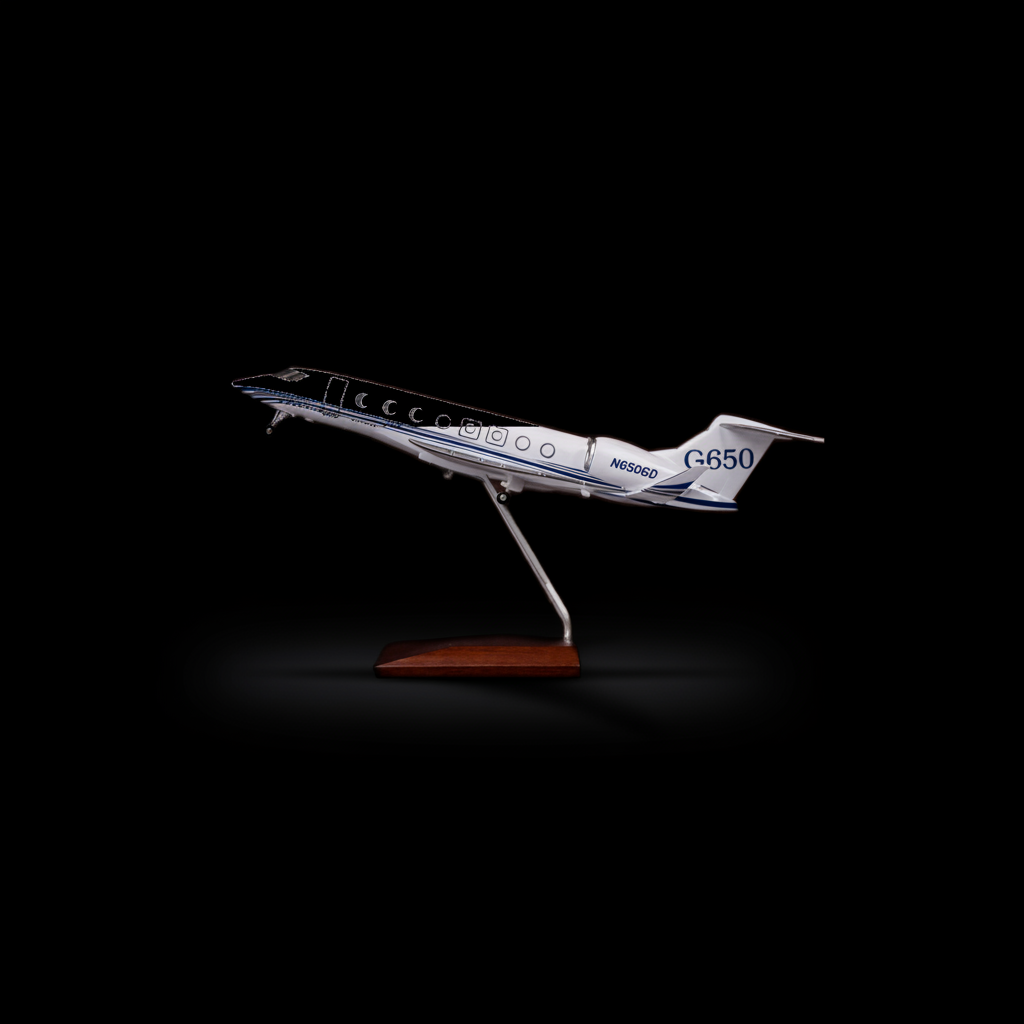
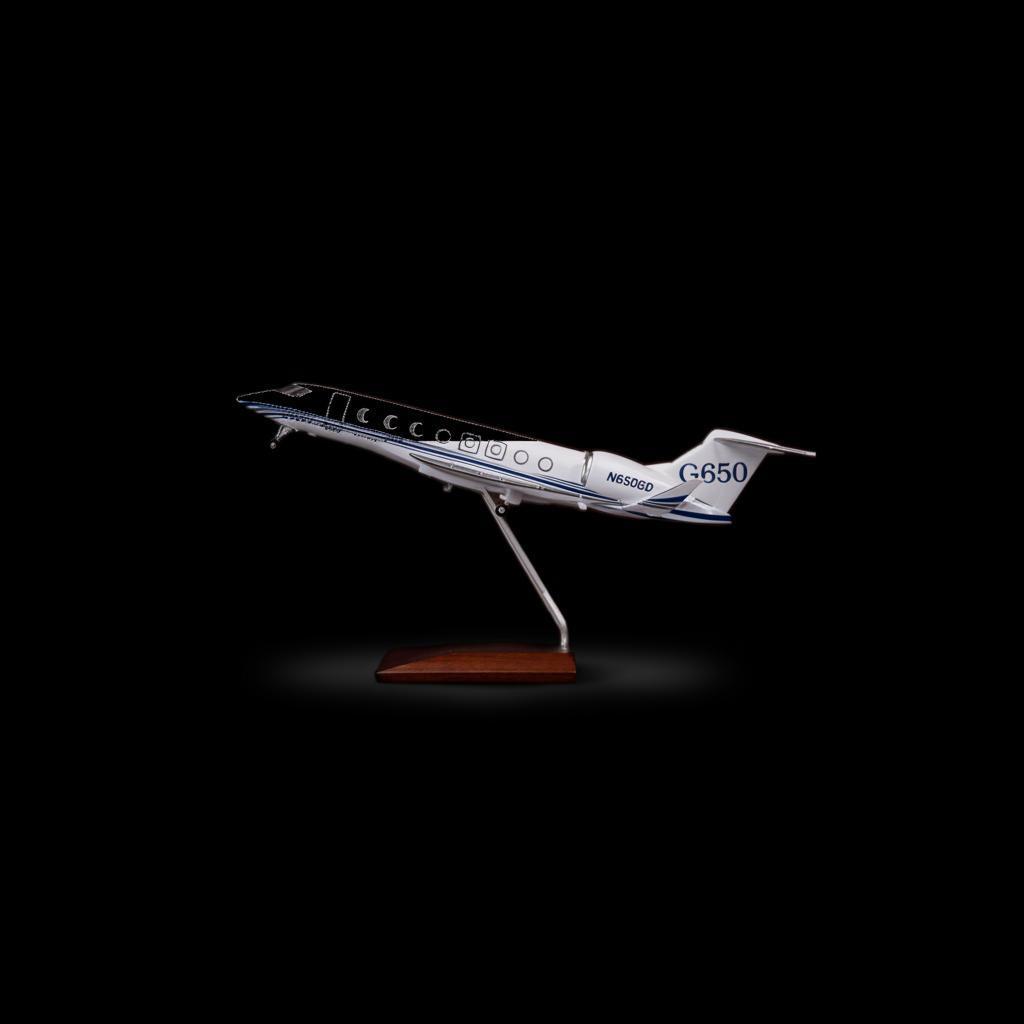
feat(images): regen Gulfstream + both Concordes via Gemini — fill the frame
User feedback: the Gulfstream and both Concorde cards looked unclear and
the planes were too small / had watermark fragments still visible.

Reshot via Gemini 2.5 Flash Image with explicit "fill 85-90% of the frame"
prompts plus livery-preservation hints:

- Gulfstream G650 (181 KB) — N650GD + G650 markings preserved, plane now
  ~70% of the frame, clean black background.
- Concorde AF 50cm (266 KB) — cursive "Concorde" watermark gone, AIR
  FRANCE livery + tricolour tail intact, plane ~80% of the frame.
- Concorde BA 50cm (581 KB) — floating "A" watermark fragment gone,
  British Airways livery + Union-Jack-inspired tail intact, plane ~75%
  of the frame.

All three now sit on the matching #080810 background so the photo edge
fuses seamlessly into the product card.

Changed region(s): [[0.2188, 0.3438, 0.8125, 0.6875]]

diff --git a/lib/products.ts b/lib/products.ts
@@ -426,9 +426,9 @@ export const PRODUCTS: Product[] = [
     price: 89,
     collection: "concorde",
     inStock: true,
-    image: `${CDN}/DF8AE5B5-7A2D-4A02-B2BD-118AAF5D58AD_nobg.png`,
+    image: `/images/concorde-af-50.png`,
     images: [
-      `${CDN}/DF8AE5B5-7A2D-4A02-B2BD-118AAF5D58AD_nobg.png`,
+      `/images/concorde-af-50.png`,
       `${CDN}/51AA0205-B8D3-436A-A8C3-3EC854A7E05E.png`,
       `${CDN}/EADAEF26-88AC-4AB3-8A47-4135892B980D.png`,
     ],
@@ -443,9 +443,9 @@ export const PRODUCTS: Product[] = [
     price: 89,
     collection: "concorde",
     inStock: true,
-    image: `${CDN}/9A131FF0-EAB2-4176-9236-7B2761E44FB5_nobg_v2.png`,
+    image: `/images/concorde-ba-50.png`,
     images: [
-      `${CDN}/9A131FF0-EAB2-4176-9236-7B2761E44FB5_nobg_v2.png`,
+      `/images/concorde-ba-50.png`,
       `${CDN}/9909E902-39B4-4FB1-94DD-D125FF9C516D.png`,
       `${CDN}/PHOTO-2024-11-20-14-31-56_1.jpg`,
     ],
